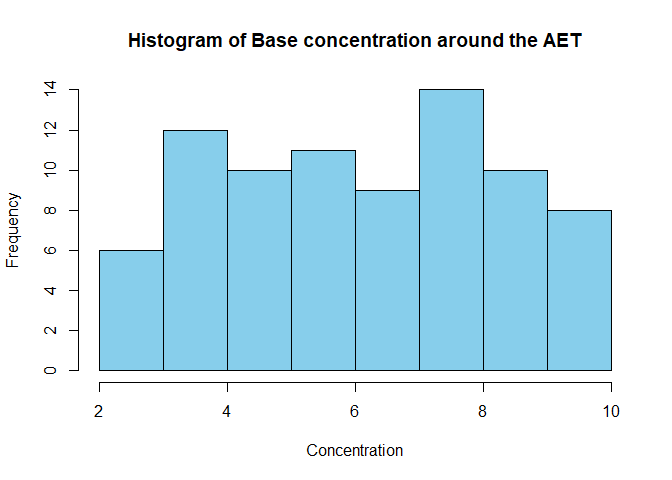
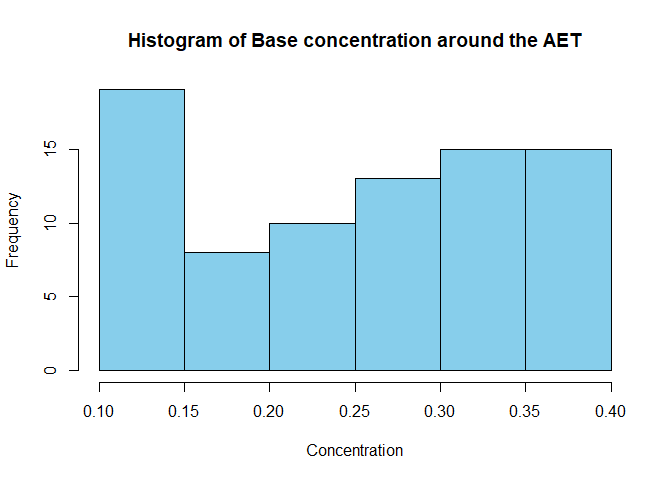
Add markdown

diff --git a/GC_MS_5_1A.md b/GC_MS_5_1A.md
@@ -44,7 +44,7 @@ library(here)
 
     Warning: package 'here' was built under R version 4.4.3
 
-    here() starts at C:/Users/misak/Documents/Master
+    here() starts at C:/Users/misak/Git-projects/el_bias
 
 ``` r
 library(parallel)
@@ -244,7 +244,7 @@ hist(lcmsneg_clap_clean$"20 µg/mL",
 ## Define AET
 
 ``` r
-AET <- 5
+AET <- 0.2
 ```
 
 ## Uniform distribution
@@ -328,7 +328,8 @@ summary_table <- data.frame(
 Uniform concentration around the AET \\ Non Parametric Bootstrap with
 replacement of the GC/MS dataset \\ No UF correction
 
-Update 02 Jan 2026: add for loop and change the replace to FALSE
+Update 02 Jan 2026: add for loop and change the replace to FALSE Update
+09 Jan 2026: add the exp concentration and change the base_conc_sim
 
 ``` r
 set.seed(123)
@@ -342,11 +343,11 @@ total_points <- N_sim * N_extractables
 
 for (i in 1:N_sim) {
 ## 1) Concentration around the AET
-base_conc_sim <- sample(base_concentrations1, size = N_extractables, replace = TRUE)
+base_conc_sim <- runif(N_extractables, min = 0.5 * AET, max = 2 * AET)
 ## A) Non-Parametric Bootstrap of the GC/MS dataset (5µg/mL)
-simulated_RRF <- sample(gcms_clap_clean$"5 µg/mL", size = N_extractables, replace = FALSE)
+simulated_RRF <- sample(gcms_clap_clean$"5 µg/mL", size = N_extractables, replace = TRUE)
 ## alpha) No Correction
-corrected_conc <- base_conc_sim / simulated_RRF
+corrected_conc <- base_conc_sim * simulated_RRF
 
 total_FN <- total_FN + sum((base_conc_sim > AET) & (corrected_conc < AET))
 total_FP <- total_FP + sum((base_conc_sim < AET) & (corrected_conc > AET))
@@ -392,13 +393,18 @@ replacement of the GC/MS dataset \\ UF correction : from 2, 4, 5, 10 and
 UF = 1/(1-RSD)
 
 ``` r
+#rsd <- function(x) {
+  #return(sd(x, na.rm = TRUE) / mean(x, na.rm = TRUE))
+#}
+
 rsd <- function(x) {
-  return(sd(x, na.rm = TRUE) / mean(x, na.rm = TRUE))
+  x_use = x[x<=1&x>0.05]
+  return(sd(x_use, na.rm = TRUE) / mean(x_use, na.rm = TRUE))
 }
 
 set.seed(123)
 N_sim <- 10000
-UF_RSD <- 1/(1-rsd(simulated_RRF)) # formula from ISO 10993-18
+UF_RSD <- 1/(1 - rsd(gcms_clap_clean$"5 µg/mL")) # formula from ISO 10993-18
 UF_list <- c(
   "UF (2)"   = 2, 
   "UF (4)"   = 4, 
@@ -418,12 +424,13 @@ for (m_name in names(UF_list)) {
   
 for (i in 1:N_sim) {
 ## 1) Concentration around the AET
-base_conc_sim <- sample(base_concentrations1, size = N_extractables, replace = TRUE)
+base_conc_sim <- runif(N_extractables, min = 0.5 * AET, max = 2 * AET)
 ## A) Non-Parametric Bootstrap of the GC/MS dataset (5µg/mL)
-simulated_RRF <- sample(gcms_clap_clean$"5 µg/mL", size = N_extractables, replace = FALSE)
+simulated_RRF <- sample(gcms_clap_clean$"5 µg/mL", size = N_extractables, replace = TRUE)
 ## beta) UF corrections
-
-  corrected_conc <- (base_conc_sim / simulated_RRF) * uf_val
+  
+  exp_conc <- (base_conc_sim / simulated_RRF)
+  corrected_conc <- exp_conc * uf_val 
   
   total_FN <- total_FN + sum((base_conc_sim > AET) & (corrected_conc < AET))
   total_FP <- total_FP + sum((base_conc_sim < AET) & (corrected_conc > AET))
@@ -446,19 +453,19 @@ summary_table <- rbind(summary_table, data.frame(
 UF_RSD
 ```
 
-    [1] -4.114787
+    [1] 2.864589
 
 ``` r
 summary_table
 ```
 
-             Method    FN_Rate   FP_Rate        FN_SD        FP_SD
-    1 No Correction 0.02918000 0.2781663 1.881772e-04 0.0005009863
-    2        UF (2) 0.00226375 0.3154163 5.313456e-05 0.0005195296
-    3        UF (4) 0.00000000 0.3293813 0.000000e+00 0.0005254632
-    4        UF (5) 0.00000000 0.3304537 0.000000e+00 0.0005258969
-    5       UF (10) 0.00000000 0.3303300 0.000000e+00 0.0005258470
-    6      UF (RSD) 0.67008125 0.0000000 5.256809e-04 0.0000000000
+             Method    FN_Rate    FP_Rate        FN_SD        FP_SD
+    1 No Correction 0.54343125 0.01802125 5.569041e-04 0.0001487300
+    2        UF (2) 0.00193125 0.31951375 4.908564e-05 0.0005213261
+    3        UF (4) 0.00000000 0.33200625 0.000000e+00 0.0005265193
+    4        UF (5) 0.00000000 0.33402375 0.000000e+00 0.0005273186
+    5       UF (10) 0.00000000 0.33283250 0.000000e+00 0.0005268480
+    6      UF (RSD) 0.00000000 0.32950000 0.000000e+00 0.0005255114
 
 ## GC-MS Correction Factor percentile
 
@@ -481,11 +488,13 @@ total_points <- N_sim * N_extractables
 
 for (i in 1:N_sim) {
 ## 1) Concentration around the AET
-base_conc_sim <- sample(base_concentrations1, size = N_extractables, replace = TRUE)
+base_conc_sim <- runif(N_extractables, min = 0.5 * AET, max = 2 * AET)
 ## A) Non-Parametric Bootstrap of the GC/MS dataset (5µg/mL)
-simulated_RRF <- sample(gcms_clap_clean$"5 µg/mL", size = N_extractables, replace = FALSE)
+simulated_RRF <- sample(gcms_clap_clean$"5 µg/mL", size = N_extractables, replace = TRUE)
+
+exp_conc <- (base_conc_sim / simulated_RRF)
 ## gamma) 16th percentile Correction
-corrected_conc <- (base_conc_sim / simulated_RRF) * (mean(simulated_RRF) / percentile(simulated_RRF))
+corrected_conc <- exp_conc * (mean(simulated_RRF) / percentile(simulated_RRF))
 
 total_FN <- total_FN + sum((base_conc_sim > AET) & (corrected_conc < AET))
 total_FP <- total_FP + sum((base_conc_sim < AET) & (corrected_conc > AET))
@@ -517,17 +526,21 @@ total_FN <- 0
 total_FP <- 0
 total_points <- N_sim * N_extractables
 
+RRF_GCMS_superior0 <- gcms_clap_clean$"5 µg/mL"
+RRF_GCMS_superior0 <- RRF_GCMS_superior0[RRF_GCMS_superior0 > 0]
+
 for (i in 1:N_sim) {
 
 ## 1) Concentration around the AET
-base_conc_sim <- sample(base_concentrations1, size = N_extractables, replace = TRUE)
+base_conc_sim <- runif(N_extractables, min = 0.5 * AET, max = 2 * AET)
 ## A) Non-Parametric Bootstrap of the GC/MS dataset (5µg/mL)
-simulated_RRF <- sample(gcms_clap_clean$"5 µg/mL", size = N_extractables, replace = FALSE)
+simulated_RRF <- sample(RRF_GCMS_superior0, size = N_extractables, replace = TRUE)
 ## delta) RRflow condition
 
-corrected_conc <- base_conc_sim
+exp_conc <- base_conc_sim * simulated_RRF
+corrected_conc <- exp_conc
 condition <- (simulated_RRF < 0.5) | (simulated_RRF > 2)
-corrected_conc[condition] <- corrected_conc[condition] / simulated_RRF[condition]
+corrected_conc[condition] <- exp_conc[condition] / simulated_RRF[condition]
 
 total_FN <- total_FN + sum((base_conc_sim > AET) & (corrected_conc < AET))
 total_FP <- total_FP + sum((base_conc_sim < AET) & (corrected_conc > AET))
@@ -545,6 +558,20 @@ summary_table <- rbind(summary_table, data.frame(
   FP_SD = sqrt(FP_Rate_final * (1 - FP_Rate_final) / total_points)))
 ```
 
+``` r
+summary_table
+```
+
+                 Method    FN_Rate    FP_Rate        FN_SD        FP_SD
+    1     No Correction 0.54343125 0.01802125 5.569041e-04 0.0001487300
+    2            UF (2) 0.00193125 0.31951375 4.908564e-05 0.0005213261
+    3            UF (4) 0.00000000 0.33200625 0.000000e+00 0.0005265193
+    4            UF (5) 0.00000000 0.33402375 0.000000e+00 0.0005273186
+    5           UF (10) 0.00000000 0.33283250 0.000000e+00 0.0005268480
+    6          UF (RSD) 0.00000000 0.32950000 0.000000e+00 0.0005255114
+    7 Percentile (16th) 0.00000000 0.33419875 0.000000e+00 0.0005273874
+    8            RRFlow 0.06470375 0.01630000 2.750390e-04 0.0001415729
+
 ## GC-MS Correction RRF \< 1
 
 Uniform concentration around the AET \\ Non Parametric Bootstrap with
@@ -559,17 +586,21 @@ total_FN <- 0
 total_FP <- 0
 total_points <- N_sim * N_extractables
 
+RRF_GCMS_superior0 <- gcms_clap_clean$"5 µg/mL"
+RRF_GCMS_superior0 <- RRF_GCMS_superior0[RRF_GCMS_superior0 > 0]
+
 for (i in 1:N_sim) {
 
 ## 1) Concentration around the AET
-base_conc_sim <- sample(base_concentrations1, size = N_extractables, replace = TRUE)
+base_conc_sim <- runif(N_extractables, min = 0.5 * AET, max = 2 * AET)
 ## A) Non-Parametric Bootstrap of the GC/MS dataset (5µg/mL)
-simulated_RRF <- sample(gcms_clap_clean$"5 µg/mL", size = N_extractables, replace = FALSE)
+simulated_RRF <- sample(RRF_GCMS_superior0, size = N_extractables, replace = TRUE)
 ## epsilon RRF < 1
 
 corrected_conc <- base_conc_sim
 condition <- (simulated_RRF < 1)
 corrected_conc[condition] <- corrected_conc[condition] / simulated_RRF[condition]
+
 
 total_FN <- total_FN + sum((base_conc_sim > AET) & (corrected_conc < AET))
 total_FP <- total_FP + sum((base_conc_sim < AET) & (corrected_conc > AET))
@@ -590,16 +621,16 @@ summary_table <- rbind(summary_table, data.frame(
 summary_table
 ```
 
-                 Method    FN_Rate   FP_Rate        FN_SD        FP_SD
-    1     No Correction 0.02918000 0.2781663 1.881772e-04 0.0005009863
-    2            UF (2) 0.00226375 0.3154163 5.313456e-05 0.0005195296
-    3            UF (4) 0.00000000 0.3293813 0.000000e+00 0.0005254632
-    4            UF (5) 0.00000000 0.3304537 0.000000e+00 0.0005258969
-    5           UF (10) 0.00000000 0.3303300 0.000000e+00 0.0005258470
-    6          UF (RSD) 0.67008125 0.0000000 5.256809e-04 0.0000000000
-    7 Percentile (16th) 0.00000000 0.3294350 0.000000e+00 0.0005254850
-    8            RRFlow 0.00719000 0.2397138 9.446100e-05 0.0004772985
-    9             RRF<1 0.00000000 0.2781663 0.000000e+00 0.0005009863
+                 Method    FN_Rate    FP_Rate        FN_SD        FP_SD
+    1     No Correction 0.54343125 0.01802125 5.569041e-04 0.0001487300
+    2            UF (2) 0.00193125 0.31951375 4.908564e-05 0.0005213261
+    3            UF (4) 0.00000000 0.33200625 0.000000e+00 0.0005265193
+    4            UF (5) 0.00000000 0.33402375 0.000000e+00 0.0005273186
+    5           UF (10) 0.00000000 0.33283250 0.000000e+00 0.0005268480
+    6          UF (RSD) 0.00000000 0.32950000 0.000000e+00 0.0005255114
+    7 Percentile (16th) 0.00000000 0.33419875 0.000000e+00 0.0005273874
+    8            RRFlow 0.06470375 0.01630000 2.750390e-04 0.0001415729
+    9             RRF<1 0.00000000 0.27357125 0.000000e+00 0.0004984100
 
 ## Machine Learning
 
@@ -654,11 +685,11 @@ sim_data <- gc_ms %>%
   sample_n(N_extractables, replace = TRUE)
   
 ## 1) Concentration around the AET
-base_conc_sim <- sample(base_concentrations1, size = N_extractables, replace = TRUE)
+base_conc_sim <- runif(N_extractables, min = 0.5 * AET, max = 2 * AET)
 ## E) RRF generated via the machine learning
 simulated_RRF <- py$predict_rrf_raw(sim_data)
 ## no correction
-corrected_conc <- base_conc_sim / simulated_RRF
+corrected_conc <- base_conc_sim * simulated_RRF
 
 
 total_FN <- total_FN + sum((base_conc_sim > AET) & (corrected_conc < AET))
@@ -681,39 +712,39 @@ summary_table <- rbind(summary_table, data.frame(
 summary_table
 ```
 
-                  Method    FN_Rate   FP_Rate        FN_SD        FP_SD
-    1      No Correction 0.02918000 0.2781663 1.881772e-04 0.0005009863
-    2             UF (2) 0.00226375 0.3154163 5.313456e-05 0.0005195296
-    3             UF (4) 0.00000000 0.3293813 0.000000e+00 0.0005254632
-    4             UF (5) 0.00000000 0.3304537 0.000000e+00 0.0005258969
-    5            UF (10) 0.00000000 0.3303300 0.000000e+00 0.0005258470
-    6           UF (RSD) 0.67008125 0.0000000 5.256809e-04 0.0000000000
-    7  Percentile (16th) 0.00000000 0.3294350 0.000000e+00 0.0005254850
-    8             RRFlow 0.00719000 0.2397138 9.446100e-05 0.0004772985
-    9              RRF<1 0.00000000 0.2781663 0.000000e+00 0.0005009863
-    10  Machine Learning 0.00000000 0.3298700 0.000000e+00 0.0005256612
+                  Method    FN_Rate    FP_Rate        FN_SD        FP_SD
+    1      No Correction 0.54343125 0.01802125 5.569041e-04 0.0001487300
+    2             UF (2) 0.00193125 0.31951375 4.908564e-05 0.0005213261
+    3             UF (4) 0.00000000 0.33200625 0.000000e+00 0.0005265193
+    4             UF (5) 0.00000000 0.33402375 0.000000e+00 0.0005273186
+    5            UF (10) 0.00000000 0.33283250 0.000000e+00 0.0005268480
+    6           UF (RSD) 0.00000000 0.32950000 0.000000e+00 0.0005255114
+    7  Percentile (16th) 0.00000000 0.33419875 0.000000e+00 0.0005273874
+    8             RRFlow 0.06470375 0.01630000 2.750390e-04 0.0001415729
+    9              RRF<1 0.00000000 0.27357125 0.000000e+00 0.0004984100
+    10  Machine Learning 0.66630250 0.00000000 5.271900e-04 0.0000000000
 
 ``` r
 hist(simulated_RRF)
 ```
 
-![](GC_MS_5_1A_files/figure-commonmark/unnamed-chunk-23-1.png)
+![](GC_MS_5_1A_files/figure-commonmark/unnamed-chunk-24-1.png)
 
 ``` r
 summary_table
 ```
 
-                  Method    FN_Rate   FP_Rate        FN_SD        FP_SD
-    1      No Correction 0.02918000 0.2781663 1.881772e-04 0.0005009863
-    2             UF (2) 0.00226375 0.3154163 5.313456e-05 0.0005195296
-    3             UF (4) 0.00000000 0.3293813 0.000000e+00 0.0005254632
-    4             UF (5) 0.00000000 0.3304537 0.000000e+00 0.0005258969
-    5            UF (10) 0.00000000 0.3303300 0.000000e+00 0.0005258470
-    6           UF (RSD) 0.67008125 0.0000000 5.256809e-04 0.0000000000
-    7  Percentile (16th) 0.00000000 0.3294350 0.000000e+00 0.0005254850
-    8             RRFlow 0.00719000 0.2397138 9.446100e-05 0.0004772985
-    9              RRF<1 0.00000000 0.2781663 0.000000e+00 0.0005009863
-    10  Machine Learning 0.00000000 0.3298700 0.000000e+00 0.0005256612
+                  Method    FN_Rate    FP_Rate        FN_SD        FP_SD
+    1      No Correction 0.54343125 0.01802125 5.569041e-04 0.0001487300
+    2             UF (2) 0.00193125 0.31951375 4.908564e-05 0.0005213261
+    3             UF (4) 0.00000000 0.33200625 0.000000e+00 0.0005265193
+    4             UF (5) 0.00000000 0.33402375 0.000000e+00 0.0005273186
+    5            UF (10) 0.00000000 0.33283250 0.000000e+00 0.0005268480
+    6           UF (RSD) 0.00000000 0.32950000 0.000000e+00 0.0005255114
+    7  Percentile (16th) 0.00000000 0.33419875 0.000000e+00 0.0005273874
+    8             RRFlow 0.06470375 0.01630000 2.750390e-04 0.0001415729
+    9              RRF<1 0.00000000 0.27357125 0.000000e+00 0.0004984100
+    10  Machine Learning 0.66630250 0.00000000 5.271900e-04 0.0000000000
 
 ## Machine Learning_2
 
@@ -740,11 +771,11 @@ sim_data <- data.frame(
 )
 
 ## 1) Concentration around the AET
-base_conc_sim <- sample(base_concentrations1, size = N_extractables, replace = TRUE)
+base_conc_sim <- runif(N_extractables, min = 0.5 * AET, max = 2 * AET)
 ## E) RRF generated via the machine learning
 simulated_RRF <- py$predict_rrf_raw(sim_data)
 ## no correction
-corrected_conc <- base_conc_sim / simulated_RRF
+corrected_conc <- base_conc_sim * simulated_RRF
 
 total_FN <- total_FN + sum((base_conc_sim > AET) & (corrected_conc < AET))
 total_FP <- total_FP + sum((base_conc_sim < AET) & (corrected_conc > AET))
@@ -794,7 +825,7 @@ ggplot(plot_data, aes(x = Method, y = Rate*100, fill = Type)) +
   geom_errorbar(aes(ymin = pmax(0, Rate*100 - 1.96*SD), ymax = Rate*100 + 1.96*SD), 
                 position = position_dodge(width = 0.9), width = 0.2) +
   labs(
-    title = "Comparison of GC-MS Correction Methods (5 µg/mL)",
+    title = paste0("Comparison of GC-MS Correction Methods (5 µg/mL)", " AET=", AET, "µg/mL"),
     subtitle = "Conc. Uniform distribution (around AET), RRF bootstrapped data from CLAP list",
     y = "Rate (%)",
     x = "Method") +
@@ -805,4 +836,4 @@ ggplot(plot_data, aes(x = Method, y = Rate*100, fill = Type)) +
   coord_flip()
 ```
 
-![](GC_MS_5_1A_files/figure-commonmark/unnamed-chunk-26-1.png)
+![](GC_MS_5_1A_files/figure-commonmark/unnamed-chunk-27-1.png)
